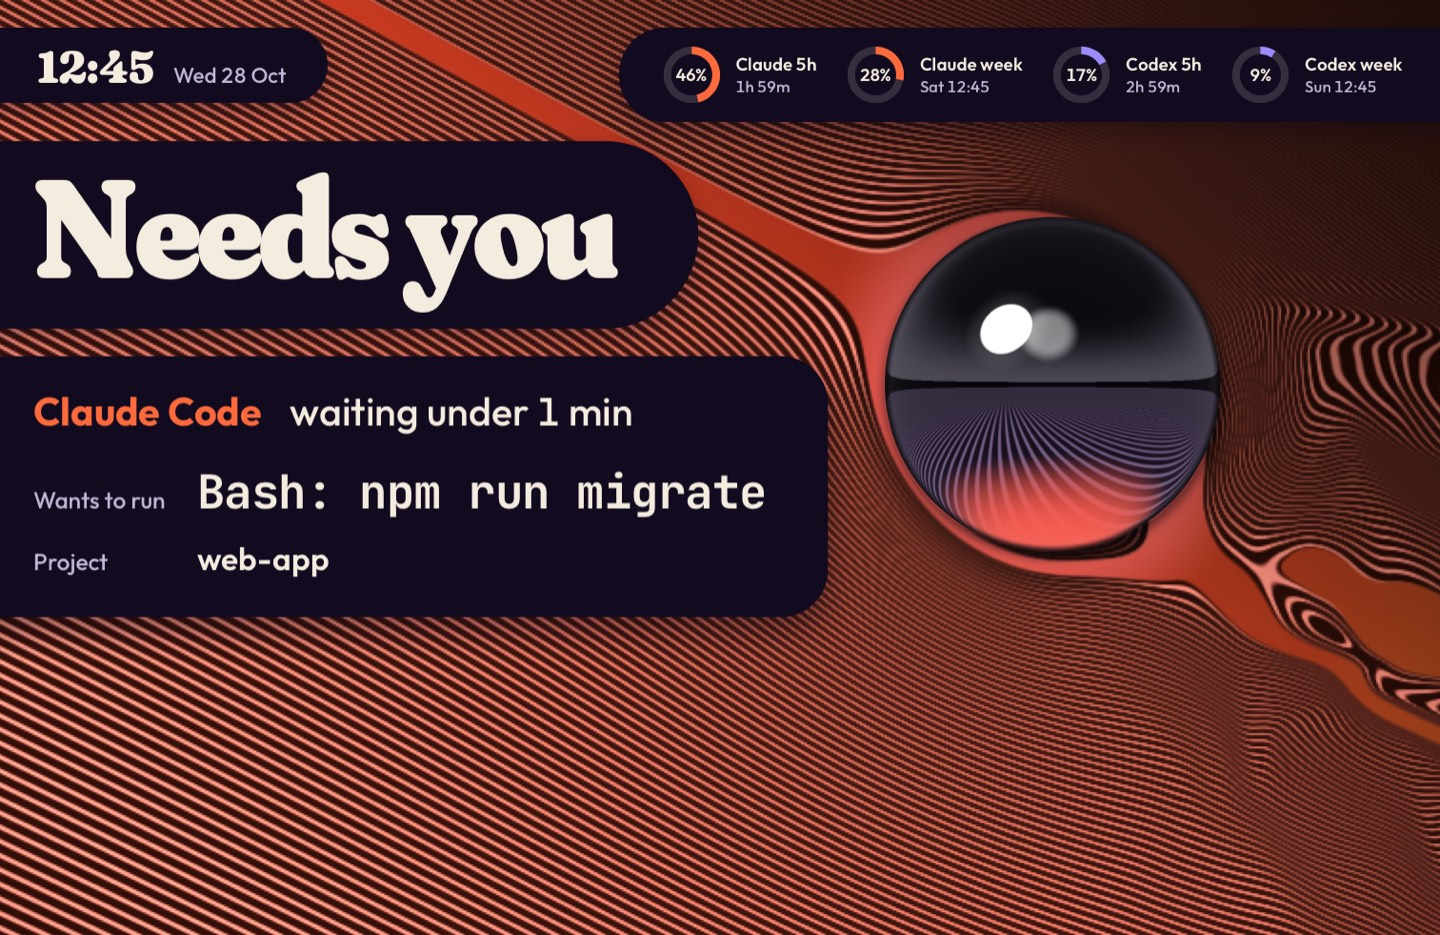
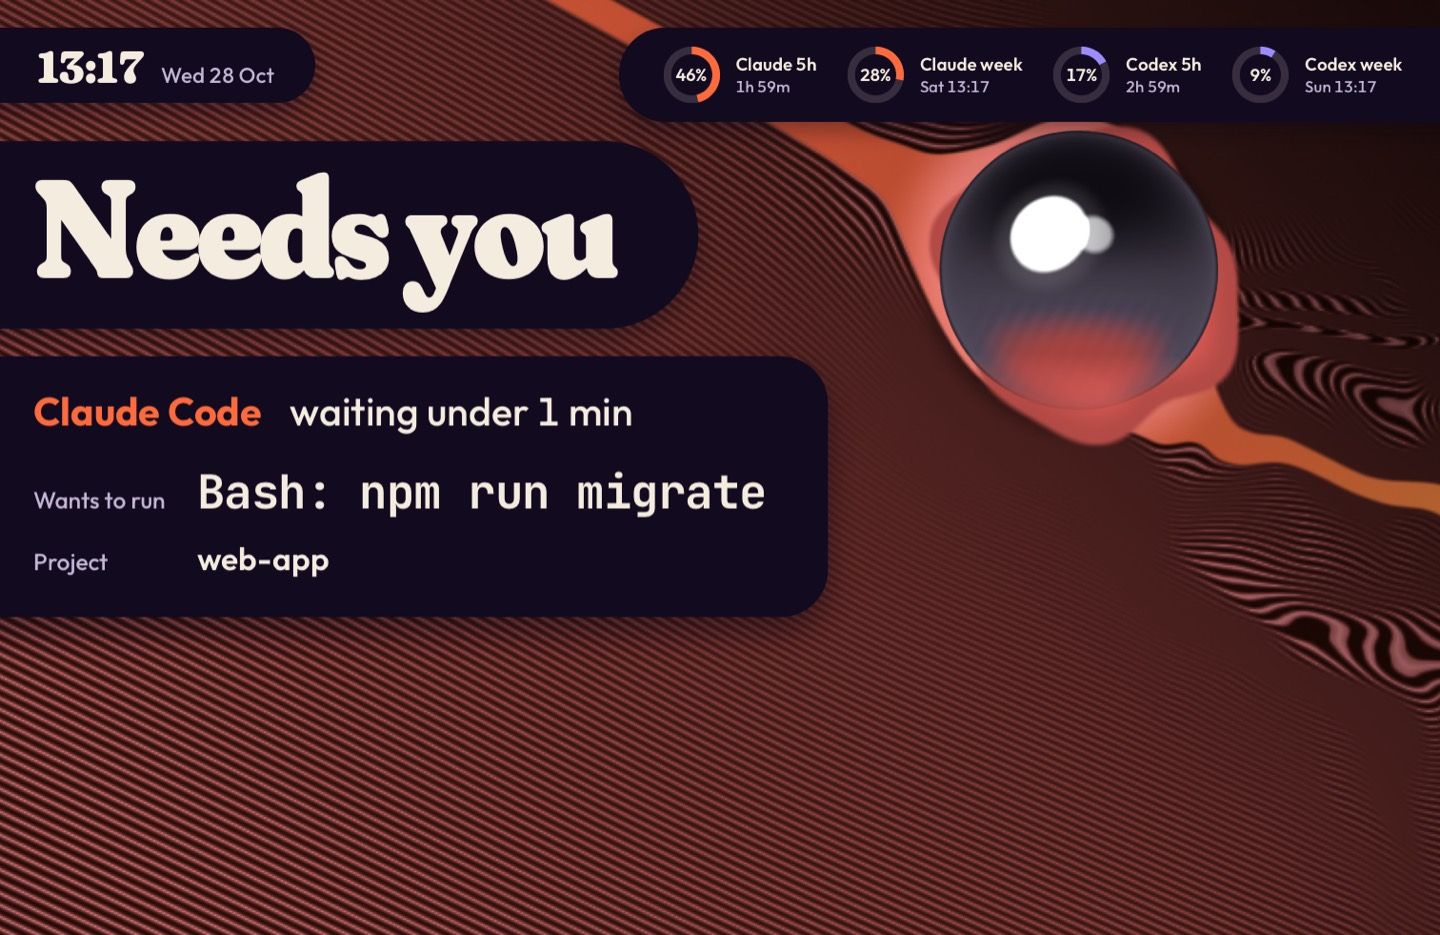
fix: make the Currents ball gunmetal chrome and smooth the lines

diff --git a/themes/currents/stavgayer.currents-ground/index.js b/themes/currents/stavgayer.currents-ground/index.js
@@ -22,7 +22,7 @@
   var SPARE = [["#ff5fa2", "#ffa36b"], ["#5fd3c4", "#8fe36b"], ["#c7a6ff", "#ff8fd0"], ["#7fb2ff", "#b28cff"]];
   var MAX_BALLS = 8;
   // Shared with the shader below.
-  var SLANT = 27, PERSP = 0.36, MARGIN = 3; // degrees, perspective strength, vmin of slack for the drift
+  var SLANT = 27, PERSP = 0.24, MARGIN = 3; // degrees, perspective strength, vmin of slack for the drift
   var reduce = window.matchMedia ? window.matchMedia("(prefers-reduced-motion: reduce)") : { matches: false };
 
   function huesOf(source) {
@@ -86,7 +86,7 @@
     }
     if (mood === "call") {
       var first = waitingOf(state)[0];
-      return [{ key: "call:" + first.source + "\u0000" + first.session, x: 74 * m.vw, y: 42 * m.vh, r: 18 * m.vmin,
+      return [{ key: "call:" + first.source + "\u0000" + first.session, x: 76 * m.vw, y: 30 * m.vh, r: 15 * m.vmin,
         hues: huesOf(first.source), thread: 1, wake: 1.25 }];
     }
     var xs = cardCentres(state.cards.length, m);
@@ -122,7 +122,7 @@
     "const vec2 NORM = vec2(sin(SLANT), cos(SLANT));",
     "const vec2 FAR = vec2(0.70710678, 0.70710678);",
     "const float PERSP = " + PERSP.toFixed(3) + ";",
-    "const float DENSITY = 120.0;",
+    "const float DENSITY = 128.0;",
     "float hash(vec2 p) { p = fract(p * vec2(123.34, 456.21)); p += dot(p, p + 45.32); return fract(p.x * p.y); }",
     "float noise(vec2 p) {",
     "  vec2 i = floor(p), f = fract(p); vec2 u = f * f * (3.0 - 2.0 * f);",
@@ -158,20 +158,34 @@
     "  float shadow = 1.0;",
     "  for (int i = 0; i < " + MAX_BALLS + "; i++) {",
     "    if (i >= uCount) break;",
-    "    vec4 b = uBall[i]; vec2 d = qw - b.xy; float a = b.z * 1.06, a2 = a * a;",
+    // the waterline wobbles, and the lines right at it lap in small ripples
+    "    vec4 b = uBall[i]; vec2 d = qw - b.xy; float ang = atan(d.y, d.x), fi = float(i);",
+    "    float wob = 1.0 + 0.05 * sin(3.0 * ang + uTime * 0.8 + fi * 1.7) + 0.03 * sin(5.0 * ang - uTime * 1.25 + fi);",
+    "    float a = b.z * 1.06 * wob, a2 = a * a;",
     "    float r2 = max(dot(d, d), a2 * 0.6);",
     "    psi -= a2 * dot(d, NORM) / r2;",
+    "    float rd = sqrt(r2);",
+    "    psi += b.z * 0.012 * sin(rd / b.z * 14.0 - uTime * 2.2) * exp(-max(rd - a, 0.0) / (0.4 * b.z));",
     "    float r = length(q - b.xy);",
     "    shadow *= mix(0.45, 1.0, smoothstep(b.z * 0.98, b.z * 1.3, r));",
     "  }",
     "  float x = psi * DENSITY + uTime / 45.0;",
     "  float fw = fwidth(x);",
-    "  float ridge = smoothstep(0.42, 0.95, 0.5 + 0.5 * cos(6.2831853 * x));",
-    "  ridge = mix(ridge, 0.3, clamp(fw * 2.2 - 0.45, 0.0, 1.0));",
-    "  vec3 ground = mix(vec3(0.055, 0.035, 0.075), uFloodHue * 0.2, uFlood);",
-    "  vec3 lilac = mix(vec3(0.68, 0.55, 0.78), mix(uFloodHue, vec3(1.0), 0.28), uFlood);",
+    // each line a soft-edged band, antialiased by its own pixel width; where lines
+    // get close to a pixel apart they fade to their average instead of shimmering
+    "  float dl = abs(fract(x + 0.5) - 0.5), half_ = 0.24;",
+    "  float edge = max(fw, 0.02);",
+    "  float ridge = 1.0 - smoothstep(half_ - edge, half_ + edge, dl);",
+    "  ridge *= mix(0.7, 1.0, 1.0 - dl / half_ * 0.5);",
+    "  ridge = mix(ridge, 2.0 * half_ * 0.85, smoothstep(0.22, 0.5, fw));",
+    "  vec3 ground = mix(vec3(0.055, 0.035, 0.075), uFloodHue * 0.14, uFlood);",
+    "  vec3 lilac = mix(vec3(0.68, 0.55, 0.78), mix(uFloodHue, vec3(0.5, 0.42, 0.55), 0.5) * 0.85, uFlood);",
     "  vec3 col = mix(ground, lilac, ridge) + vec3(1.0, 0.94, 1.0) * pow(ridge, 7.0) * 0.22;",
     "  col *= shadow;",
+    // the far edge of the surface sinks into the dark; the threads sink less
+    "  float far = dot(p, FAR);",
+    "  float vig = (1.0 - 0.7 * smoothstep(-0.1, 0.9, far)) * (1.0 - 0.25 * smoothstep(0.55, 1.0, length(p * vec2(0.75, 1.0))));",
+    "  col *= vig;",
     // one thread per ball: the stream line through its centre
     "  for (int i = 0; i < " + MAX_BALLS + "; i++) {",
     "    if (i >= uCount) break;",
@@ -179,18 +193,21 @@
     "    if (uHue[i].a <= 0.001) continue;",
     "    float lx = dot(qw - b.xy, FLOW);",
     "    float own = psi - dot(b.xy, NORM);",
-    "    float tw = a * (0.07 + 0.12 * smoothstep(0.0, 6.0 * a, lx));",
+    "    float tw = a * (0.07 + 0.12 * smoothstep(0.0, 6.0 * a, lx)) * (1.0 + 0.5 * uFlood);",
     "    float fp = fwidth(psi) + 1e-5;",
     "    float m = 1.0 - smoothstep(tw - fp, tw + fp, abs(own));",
     "    vec3 tc = mix(uHue[i].rgb, uHue2[i].rgb, smoothstep(0.0, 9.0 * a, lx));",
     "    float near = 1.0 - smoothstep(a, a * 1.5, length(q - b.xy));",
     "    tc = mix(tc, mix(uHue[i].rgb, vec3(1.0, 0.62, 0.78), 0.45), near * 0.7);",
-    "    col = mix(col, tc * mix(0.82, 1.0, near), m * uHue[i].a);",
+    "    tc = mix(tc, min(tc * 1.2 + vec3(0.06), vec3(1.0)), uFlood);",
+    "    col = mix(col, tc * mix(0.82, 1.0, near) * mix(1.0, vig, 0.35), m * uHue[i].a);",
+    // the pool the ball sits in: a wobbling disc of the thread's colour at its waterline
+    "    vec2 pd = q - b.xy - FLOW * a * 0.12; float pa = atan(pd.y, pd.x);",
+    "    float pr = length(pd) / (a * (1.0 + 0.06 * sin(4.0 * pa + uTime * 0.9 + float(i) * 2.3) + 0.04 * sin(7.0 * pa - uTime * 1.4)));",
+    "    float pool = (1.0 - smoothstep(1.1, 1.1 + 2.0 * fwidth(pr) + 0.02, pr)) * uHue[i].a;",
+    "    vec3 pc = mix(uHue[i].rgb, vec3(1.0, 0.6, 0.72), 0.4) * mix(0.95, 0.7, smoothstep(0.6, 1.1, pr));",
+    "    col = mix(col, pc, pool);",
     "  }",
-    // the far edge of the surface sinks into the dark
-    "  float far = dot(p, FAR);",
-    "  col *= 1.0 - 0.7 * smoothstep(-0.1, 0.9, far);",
-    "  col *= 1.0 - 0.25 * smoothstep(0.55, 1.0, length(p * vec2(0.75, 1.0)));",
     "  col *= mix(1.0, 0.5, uDim);",
     "  col += (hash(gl_FragCoord.xy + fract(uTime)) - 0.5) / 255.0;",
     "  outColor = vec4(col, 1.0);",
@@ -208,11 +225,11 @@
   // ---- the chrome balls -------------------------------------------------------
 
   // A dark gunmetal mirror, rendered once into a canvas when the ball appears or
-  // changes, never per frame. Each pixel follows the eye's ray off the mirror:
-  // rays going down see the lined surface (faint lilac lines that curve and
-  // squeeze toward the rim, and the coloured pool right at the ball's foot);
-  // rays going up see a near-black room with one hard window highlight and a
-  // softer second one. A dark horizon, a little Fresnel lift and a dark rim.
+  // changes, never per frame. Each pixel follows the eye's ray off the mirror into
+  // a soft room: near black above, a dim grey around the middle, and below, a
+  // faint blurred memory of the lilac lines and the coloured pool at the ball's
+  // foot, all blending with no hard horizon. One hard white window highlight
+  // upper left, a softer second one, a light Fresnel rim and a thin dark edge.
   function smooth(a, b, x) {
     var t = Math.min(1, Math.max(0, (x - a) / (b - a)));
     return t * t * (3 - 2 * t);
@@ -223,33 +240,27 @@
     return [v[0] / n, v[1] / n, v[2] / n];
   }
 
-  var L1 = unit([-0.5, -0.6, 0.62]), L2 = unit([-0.05, -0.58, 0.81]);
+  var L1 = unit([-0.42, -0.5, 0.76]), L2 = unit([0.2, -0.5, 0.84]);
 
   function seen(px, py, pool) {
     var r2 = px * px + py * py, nz = Math.sqrt(Math.max(0, 1 - r2));
     var rx = 2 * nz * px, ry = 2 * nz * py, rz = 2 * nz * nz - 1;
-    var c;
-    if (ry > 0.03) {
-      var t = (1.0 - py) / ry, hx = px + rx * t, hz = nz + rz * t;
-      var line = smooth(0.45, 0.95, 0.5 + 0.5 * Math.cos(((hx * 0.85 + hz * 0.52) / 0.16) * Math.PI * 2));
-      var haze = smooth(0.8, 5, t);
-      c = [22 + 92 * line, 16 + 76 * line, 30 + 102 * line];
-      c = [c[0] + (52 - c[0]) * haze, c[1] + (44 - c[1]) * haze, c[2] + (62 - c[2]) * haze];
-      if (pool) {
-        var foot = 1 - smooth(0.1, 0.85, t);
-        c = [c[0] + (pool[0] - c[0]) * foot, c[1] + (pool[1] - c[1]) * foot, c[2] + (pool[2] - c[2]) * foot];
-      }
-    } else if (ry > -0.03) {
-      c = [6, 5, 9];
-    } else {
-      var up = smooth(-0.03, -0.7, ry);
-      c = [74 - 62 * up, 70 - 59 * up, 82 - 66 * up];
+    // the room: dark above, dim grey in the middle, faint lines and the pool below
+    var mid = smooth(-0.95, 0.35, ry);
+    var c = [14 + 52 * mid, 12 + 48 * mid, 18 + 56 * mid];
+    var low = smooth(0.15, 0.85, ry);
+    var lines = 0.5 + 0.5 * Math.cos(((px * 0.9 + py * 0.45) / 0.11) * Math.PI * 2);
+    var faint = [80 + 12 * lines, 70 + 10 * lines, 94 + 14 * lines];
+    c = [c[0] + (faint[0] - c[0]) * low * 0.6, c[1] + (faint[1] - c[1]) * low * 0.6, c[2] + (faint[2] - c[2]) * low * 0.6];
+    if (pool) {
+      var foot = smooth(0.45, 0.95, ry) * 0.75;
+      c = [c[0] + (pool[0] - c[0]) * foot, c[1] + (pool[1] - c[1]) * foot, c[2] + (pool[2] - c[2]) * foot];
     }
-    var f = Math.pow(1 - nz, 2.6) * 0.26;
-    c = [c[0] + (170 - c[0]) * f, c[1] + (162 - c[1]) * f, c[2] + (182 - c[2]) * f];
+    var f = Math.pow(1 - nz, 3) * 0.42; // a light Fresnel rim
+    c = [c[0] + (150 - c[0]) * f, c[1] + (142 - c[1]) * f, c[2] + (166 - c[2]) * f];
     var s1 = rx * L1[0] + ry * L1[1] + rz * L1[2];
     var s2 = rx * L2[0] + ry * L2[1] + rz * L2[2];
-    var light = Math.min(1, smooth(0.952, 0.96, s1) + smooth(0.86, 0.975, s1) * 0.12 + smooth(0.93, 0.985, s2) * 0.5);
+    var light = Math.min(1, smooth(0.83, 0.875, s1) + smooth(0.6, 0.86, s1) * 0.12 + smooth(0.95, 0.98, s2) * 0.62);
     return [c[0] + (255 - c[0]) * light, c[1] + (255 - c[1]) * light, c[2] + (255 - c[2]) * light];
   }
 
@@ -272,7 +283,7 @@
           var c = seen(Math.max(-1, Math.min(1, px + (s & 1 ? half : -half))), Math.max(-1, Math.min(1, py + (s & 2 ? half : -half))), pool);
           sum[0] += c[0]; sum[1] += c[1]; sum[2] += c[2];
         }
-        var dark = smooth(0.95, 1, r) * 0.85;
+        var dark = smooth(0.965, 1, r) * 0.7;
         data[k] = (sum[0] / 4) * (1 - dark) + 4 * dark;
         data[k + 1] = (sum[1] / 4) * (1 - dark) + 3 * dark;
         data[k + 2] = (sum[2] / 4) * (1 - dark) + 6 * dark;
@@ -287,7 +298,7 @@
   function poolOf(ball) {
     if (!ball.hues || ball.thread < 0.5) return null;
     var h = rgbOf(ball.hues[0]);
-    return [h[0] * 0.75 + 60, h[1] * 0.75 + 35, h[2] * 0.75 + 45];
+    return [h[0] * 0.6 + 40, h[1] * 0.6 + 22, h[2] * 0.6 + 30];
   }
 
   var STYLE = [
@@ -298,8 +309,11 @@
     "  height: calc(100% + " + 2 * MARGIN + "vmin); display: block; }",
     ".csg .fallback { position: absolute; inset: -" + MARGIN + "vmin; background: #0e0913 repeating-linear-gradient(-27deg, #0e0913 0 0.5vmin, #6f5a7e 0.5vmin 0.8vmin); }",
     ".csg .balls { position: absolute; inset: 0; transition: opacity 320ms " + EASE_OUT + "; }",
-    ".csg .ball { position: absolute; border-radius: 50%; box-shadow: 0 0.6vmin 1.4vmin rgba(4, 2, 8, 0.6); }",
-    ".csg .ball canvas { display: block; width: 100%; height: 100%; border-radius: 50%; }",
+    ".csg .ball { position: absolute; border-radius: 50%; }",
+    ".csg .ball .swim { width: 100%; height: 100%; border-radius: 50%; will-change: transform; }",
+    // the ball sits sunk in its pool: its foot fades into the surface
+    ".csg .ball canvas { display: block; width: 100%; height: 100%; border-radius: 50%;",
+    "  -webkit-mask-image: linear-gradient(to bottom, #000 80%, rgba(0,0,0,0.15) 97%); mask-image: linear-gradient(to bottom, #000 80%, rgba(0,0,0,0.15) 97%); }",
     "@media (prefers-reduced-motion: reduce) { .csg .drift { animation: none; } }",
   ].join("\n");
 
@@ -343,11 +357,11 @@
         var item = flow.find(function (f) { return f.key === ball.key; });
         var h1 = ball.hues ? rgbOf(ball.hues[0]) : [200, 170, 220], h2 = ball.hues ? rgbOf(ball.hues[1]) : h1;
         if (!item) {
-          item = { key: ball.key, x: at.x, y: at.y, r: 0, thread: 0, wake: 0 };
+          item = { key: ball.key, x: at.x, y: at.y, r: 0, thread: 0, wake: 0, wait: 140 };
           if (mood === "" || reduce.matches) { item.r = goal.r; item.thread = goal.thread; item.wake = goal.wake; }
           flow.push(item);
         }
-        item.x = at.x; item.y = at.y; item.goal = goal;
+        item.x = at.x; item.y = at.y; item.goal = goal; item.f = at.f; item.size = 2 * ball.r; item.phase = phaseOf(ball.key);
         item.h1 = h1.map(function (c) { return c / 255; });
         item.h2 = h2.map(function (c) { return c / 255; });
       });
@@ -361,7 +375,8 @@
     function step(frameMs) {
       var still = reduce.matches;
       flow.forEach(function (item) {
-        item.r = still ? item.goal.r : ease(item.r, item.goal.r, frameMs, 160);
+        if (item.wait > 0 && !still) { item.wait -= frameMs; return; }
+        item.r = still ? item.goal.r : ease(item.r, item.goal.r, frameMs, 110);
         item.thread = still ? item.goal.thread : ease(item.thread, item.goal.thread, frameMs, 500);
         item.wake = still ? item.goal.wake : ease(item.wake, item.goal.wake, frameMs, 900);
       });
@@ -375,7 +390,9 @@
       var count = Math.min(MAX_BALLS, flow.length);
       for (var i = 0; i < MAX_BALLS; i++) {
         var item = i < count ? flow[i] : undefined, at = i * 4;
-        ballData[at] = item ? item.x : 0; ballData[at + 1] = item ? item.y : 0;
+        var sw = item && !reduce.matches ? swimOf(item.phase, seconds, item.size) : { x: 0, y: 0 };
+        // screen px to surface units (y flips)
+        ballData[at] = item ? item.x + sw.x * item.f : 0; ballData[at + 1] = item ? item.y - sw.y * item.f : 0;
         ballData[at + 2] = item ? item.r : 0; ballData[at + 3] = item ? item.wake : 0;
         hueData[at] = item ? item.h1[0] : 0; hueData[at + 1] = item ? item.h1[1] : 0; hueData[at + 2] = item ? item.h1[2] : 0;
         hueData[at + 3] = item ? item.thread : 0;
@@ -404,6 +421,12 @@
       if (!reduce.matches) seconds += frameMs / 1000;
       step(frameMs);
       render();
+      if (!reduce.matches) {
+        balls.forEach(function (entry) {
+          var sw = swimOf(entry.phase, seconds, 2 * entry.r);
+          entry.swim.style.transform = "translate(" + sw.x.toFixed(2) + "px," + sw.y.toFixed(2) + "px) rotate(" + sw.turn.toFixed(2) + "deg)";
+        });
+      }
     }
 
     function fit() {
@@ -449,6 +472,23 @@
 
     // ---- the DOM balls ----
 
+    // Each ball floats: a slow drift and bob of about 1.5% of its size and a tiny
+    // rock, from a few sines with periods 4 to 9 s, its own phases per ball.
+    function phaseOf(key) {
+      var hash = 0;
+      for (var i = 0; i < key.length; i++) hash = (hash * 31 + key.charCodeAt(i)) | 0;
+      return [0, 1, 2, 3, 4].map(function (k) { return (((hash >>> (k * 5)) & 31) / 31) * Math.PI * 2; });
+    }
+
+    function swimOf(phase, t, size) {
+      var A = 0.015 * size, T = Math.PI * 2;
+      return {
+        x: A * (0.6 * Math.sin((T * t) / 6.1 + phase[0]) + 0.4 * Math.sin((T * t) / 8.7 + phase[1])),
+        y: A * (0.6 * Math.sin((T * t) / 5.3 + phase[2]) + 0.4 * Math.sin((T * t) / 4.1 + phase[3])),
+        turn: 0.9 * Math.sin((T * t) / 6.7 + phase[4]),
+      };
+    }
+
     function placeBall(node, ball) {
       node.style.width = node.style.height = (2 * ball.r).toFixed(1) + "px";
       node.style.left = (ball.x - ball.r).toFixed(1) + "px";
@@ -479,12 +519,15 @@
         wanted.add(ball.key);
         var entry = balls.get(ball.key);
         if (!entry) {
-          entry = { node: document.createElement("div"), holder: holder, x: ball.x, y: ball.y, r: ball.r, looks: looksOf(ball) };
+          entry = { node: document.createElement("div"), swim: document.createElement("div"), holder: holder, x: ball.x, y: ball.y, r: ball.r,
+            looks: looksOf(ball), phase: phaseOf(ball.key) };
           entry.node.className = "ball";
+          entry.swim.className = "swim";
+          entry.node.appendChild(entry.swim);
           balls.set(ball.key, entry);
           holder.appendChild(entry.node);
           placeBall(entry.node, ball);
-          entry.node.replaceChildren(mirror(2 * ball.r, poolOf(ball)));
+          entry.swim.replaceChildren(mirror(2 * ball.r, poolOf(ball)));
           if (mood !== "") arrive(entry.node, fresh++, motion);
           return;
         }
@@ -498,7 +541,7 @@
         placeBall(entry.node, ball);
         var looks = looksOf(ball);
         if (looks !== entry.looks) {
-          entry.node.replaceChildren(mirror(2 * ball.r, poolOf(ball)));
+          entry.swim.replaceChildren(mirror(2 * ball.r, poolOf(ball)));
           entry.looks = looks;
         }
         entry.x = ball.x; entry.y = ball.y; entry.r = ball.r;

diff --git a/themes/currents/stavgayer.currents-board/index.js b/themes/currents/stavgayer.currents-board/index.js
@@ -46,10 +46,10 @@
     ".csb .sub[hidden] { display: none; }",
     ".csb .dots { display: flex; gap: 1vmin; }",
     ".csb .dots:empty { display: none; }",
-    // tiny chrome balls: dark mirror, a hard highlight, a light floor and a dark rim
-    ".csb .dots span { width: 3vmin; height: 3vmin; border-radius: 50%; box-shadow: inset 0 0 0 0.25vmin #0b0812;",
-    "  background: radial-gradient(circle at 34% 28%, #ffffff 0 9%, rgba(255,255,255,0) 15%),",
-    "  linear-gradient(180deg, #24212c 0%, #4c4856 44%, #100d16 47%, #100d16 52%, #a19dab 56%, #d6d2de 92%); }",
+    // tiny gunmetal balls: near black, one hard highlight, a soft lift toward the foot
+    ".csb .dots span { width: 3vmin; height: 3vmin; border-radius: 50%; box-shadow: inset 0 0 0 0.2vmin #0b0812;",
+    "  background: radial-gradient(circle at 34% 30%, #ffffff 0 12%, rgba(255,255,255,0) 20%),",
+    "  radial-gradient(circle at 50% 85%, #6a6276 0%, #2a2532 45%, #111017 75%); }",
     ".csb.time .hero { top: 18vh; height: 36vmin; padding: 0 12vmin 0 9vmin; }",
     ".csb.time .hero .word { font-size: 31vmin; letter-spacing: -0.04em; font-weight: 800; padding-bottom: 0.04em; }",
     ".csb.time .sub { top: calc(18vh + 37.6vmin); height: 9vmin; }",

diff --git a/themes/currents/README.md b/themes/currents/README.md
@@ -18,12 +18,13 @@ Each agent owns one thread colour: Claude vermilion to orange, Codex lilac to bl
 
 ## Motion
 
-- The lines upstream of each ball stand still and the balls stand still. The wakes churn all the time: loops form, stretch, fold and drift downstream, and the threads wobble with them.
+- Each ball sits sunk in a pool of its thread's colour and floats: it drifts and bobs by about 1.5% of its size and rocks very slightly, each ball on its own slow rhythm. The pool's edge wobbles, the lines at its waterline ripple, and the wake follows the ball. The lines upstream stand still.
+- The wakes churn all the time: loops form, stretch, fold and drift downstream, and the threads wobble with them.
 - The line pattern slides sideways by one line every 45 seconds, and the whole surface drifts a few pixels over 4 minutes (option `drift`). Both move pixels against burn-in.
 - Balls and cards rise in with a spring, 70 ms apart. When a task finishes, its card takes a small press, the new word rises in, the ball shrinks and its thread fades.
 - An approval is one move: the agent's colour floods the surface, the large ball lands, and the card slides in from the left and holds. Nothing pulses.
 - The surface is a WebGL fragment shader. It renders at half size (option `scale`) and at most 30 frames a second (option `fps`), and stops when the screen saver stops. The balls are pictures rendered once per change. Cards and words animate only transform and opacity.
-- With "Reduce motion" on in macOS, the surface is drawn once and stands still, and things fade instead of moving.
+- With "Reduce motion" on in macOS, the surface is drawn once and stands still, the balls do not float, and things fade instead of moving.
 
 ## What is in this folder
 
